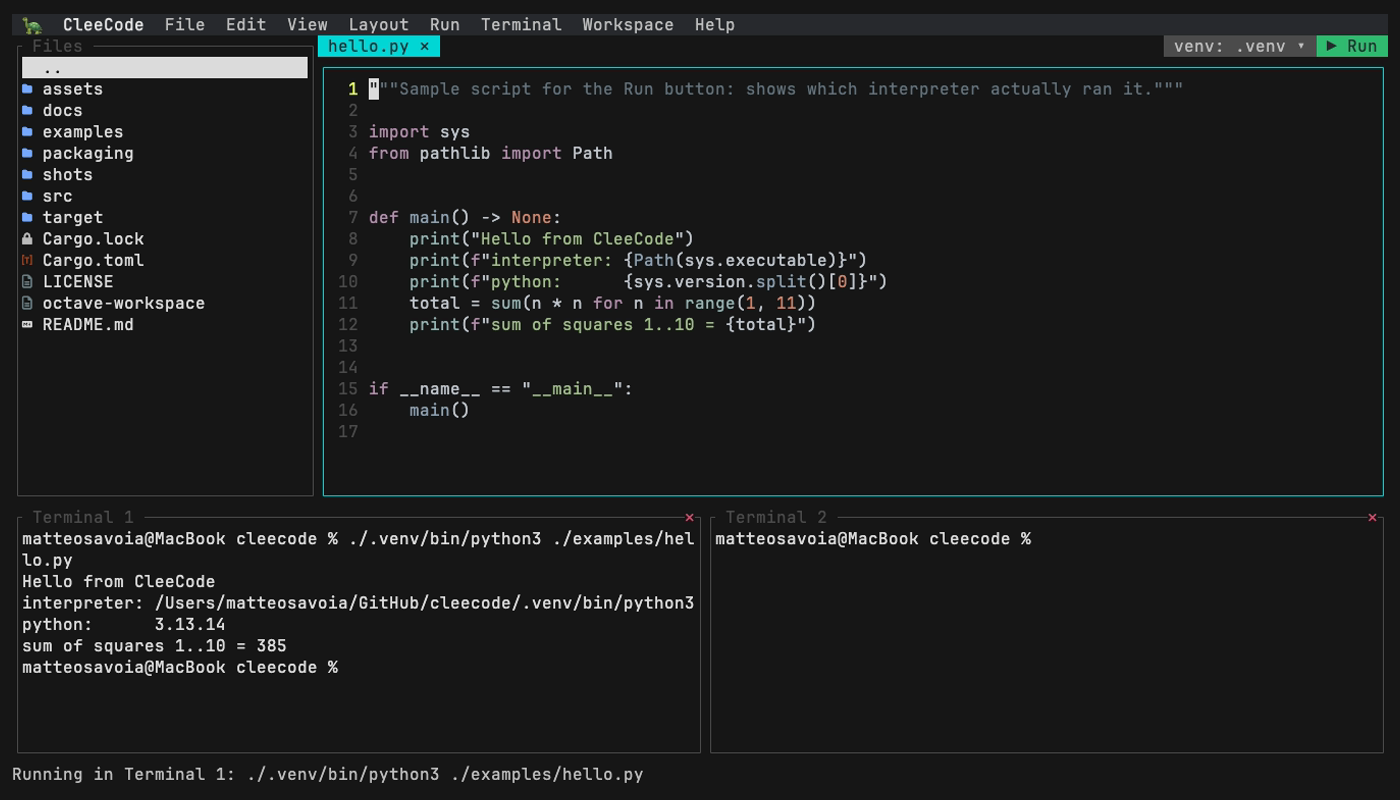
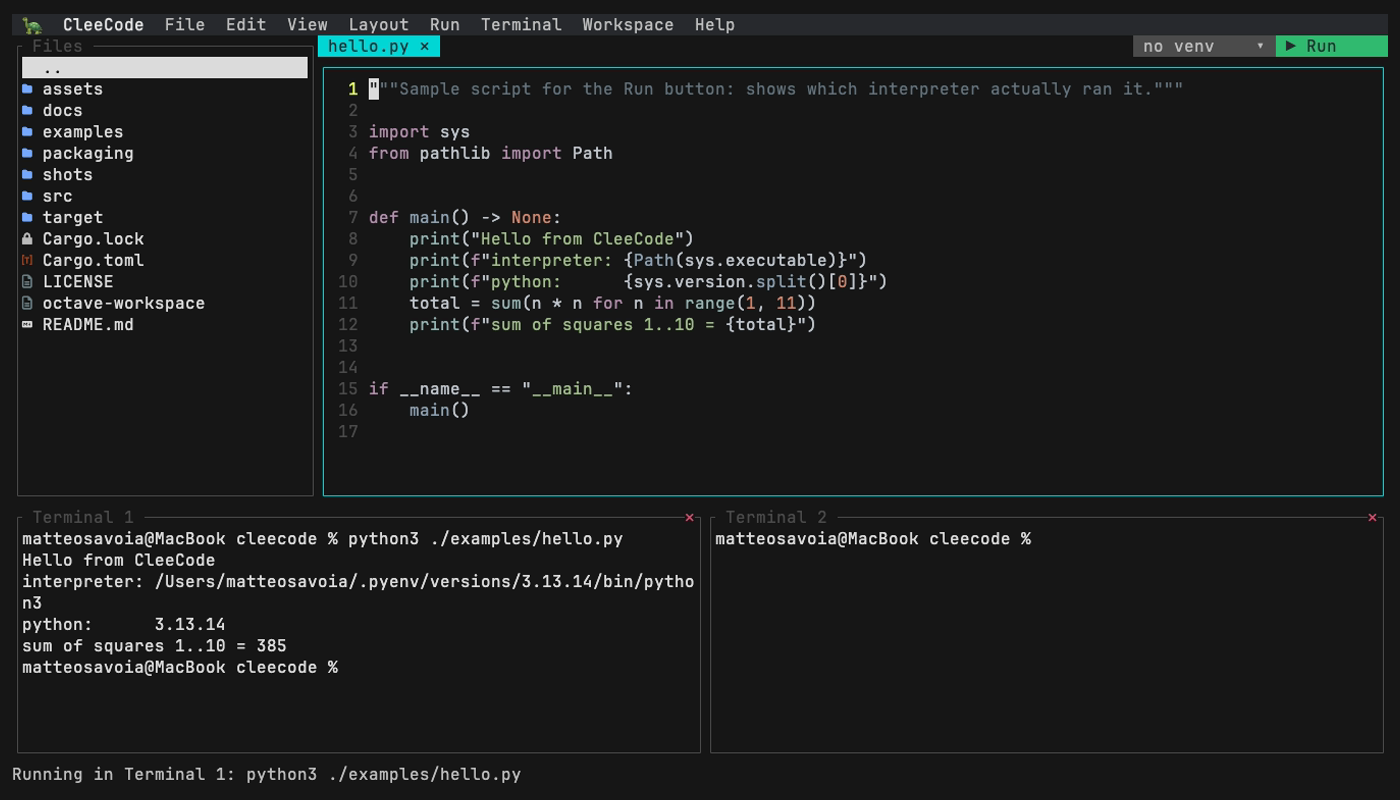
Run stays Run on a picture, and the screenshots are taken without tmux
Refresh took over the button on every preview tab, pictures included. On a
picture it had nothing to do — the file is the picture, so re-making it
decodes the same bytes again — while it took away the one thing that was
useful there: running the run command, which for an image shows it in a
terminal pane with chafa. Refresh now appears only where a preview is
generated and could come out different: a PDF page, or markdown being
typed.

The screenshots ran CleeCode inside tmux, and keys sent through tmux no
longer reached it, so every shot timed out waiting for a state that never
arrived. vhs sets the terminal size itself, so tmux was buying nothing;
it is gone, along with the companion key script, and the pictures are
regenerated from 0.4.0.

diff --git a/src/preview.rs b/src/preview.rs
@@ -187,6 +187,15 @@ impl Preview {
 
 
 
+    /// Whether re-making this would produce anything different. True for a document, whose
+    /// pages are generated — from a file that may have been recompiled, or from a buffer being
+    /// typed in. False for a picture: the file *is* the picture, so "refresh" would mean
+    /// decoding the same bytes again, and the button is better spent on the run command, which
+    /// for an image shows it in a terminal instead.
+    pub fn refreshable(&self) -> bool {
+        self.pages.is_some() || self.source.is_some()
+    }
+
     /// The page a document is on, or `None` for a picture.
     pub fn page(&self) -> Option<usize> {
         self.pages.as_ref().map(|p| p.current)

diff --git a/src/app.rs b/src/app.rs
@@ -2856,7 +2856,7 @@ impl App {
         let idx = self.pane_editor_index(self.editor_pane_focus);
         // Already a preview: ▶ means refresh. A rendered tab re-reads its buffer, a document
         // re-rasterises the page in front of you.
-        if let Some(preview) = self.editors[idx].preview.as_ref() {
+        if let Some(preview) = self.editors[idx].preview.as_ref().filter(|p| p.refreshable()) {
             let page = preview.page();
             let rendered = preview.source.is_some();
             let path = self.editors[idx].path.clone();

diff --git a/src/ui.rs b/src/ui.rs
@@ -295,7 +295,7 @@ pub fn tab_strip_layout(widths: &[u16], width: u16, offset: usize) -> TabStrip {
 /// "run" would mean nothing there, and a button that means nothing is worse than one that means
 /// something small.
 fn run_button_label(app: &App, idx: usize) -> String {
-    let key = if app.editors.get(idx).is_some_and(|e| e.preview.is_some()) {
+    let key = if app.editors.get(idx).is_some_and(|e| e.preview.as_ref().is_some_and(|p| p.refreshable())) {
         Key::ToolbarRefresh
     } else {
         Key::ToolbarRun
